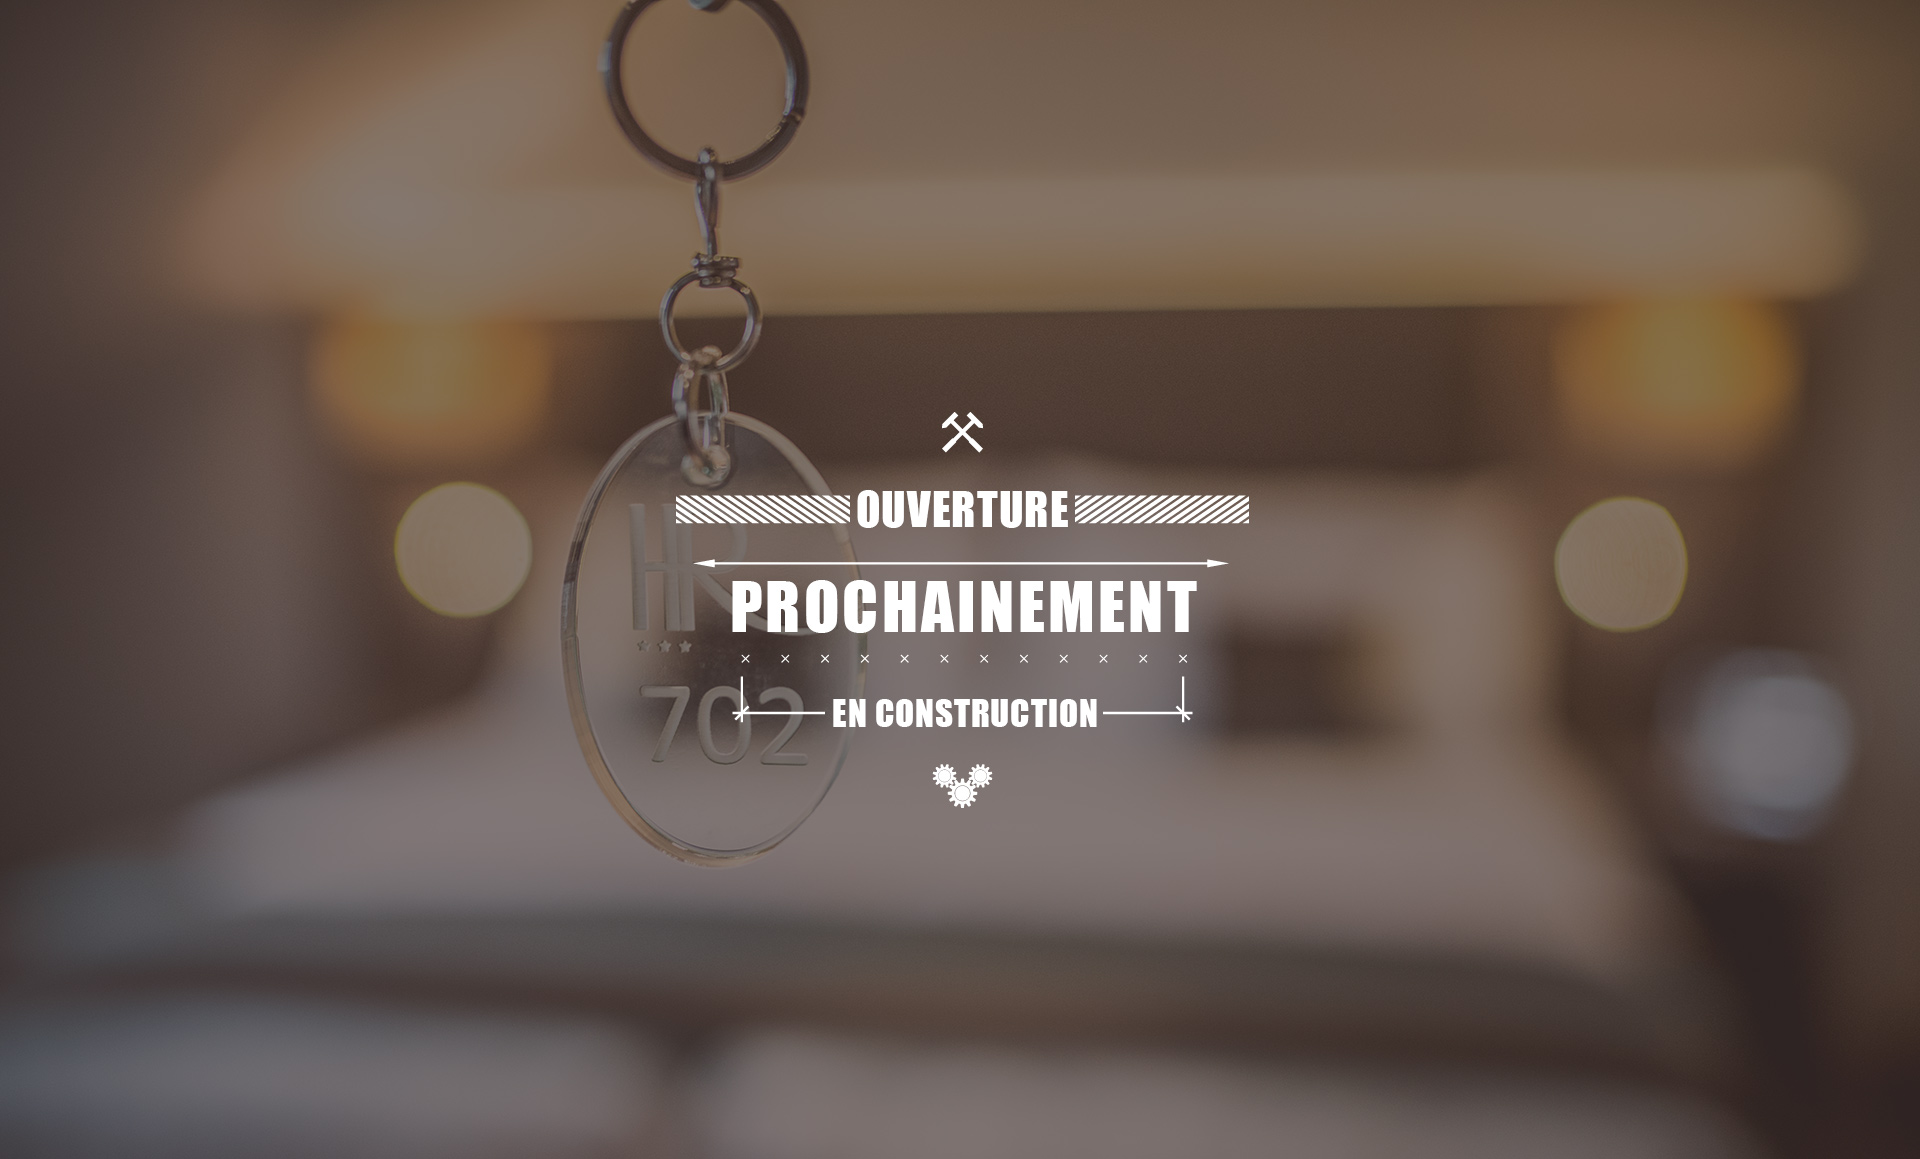
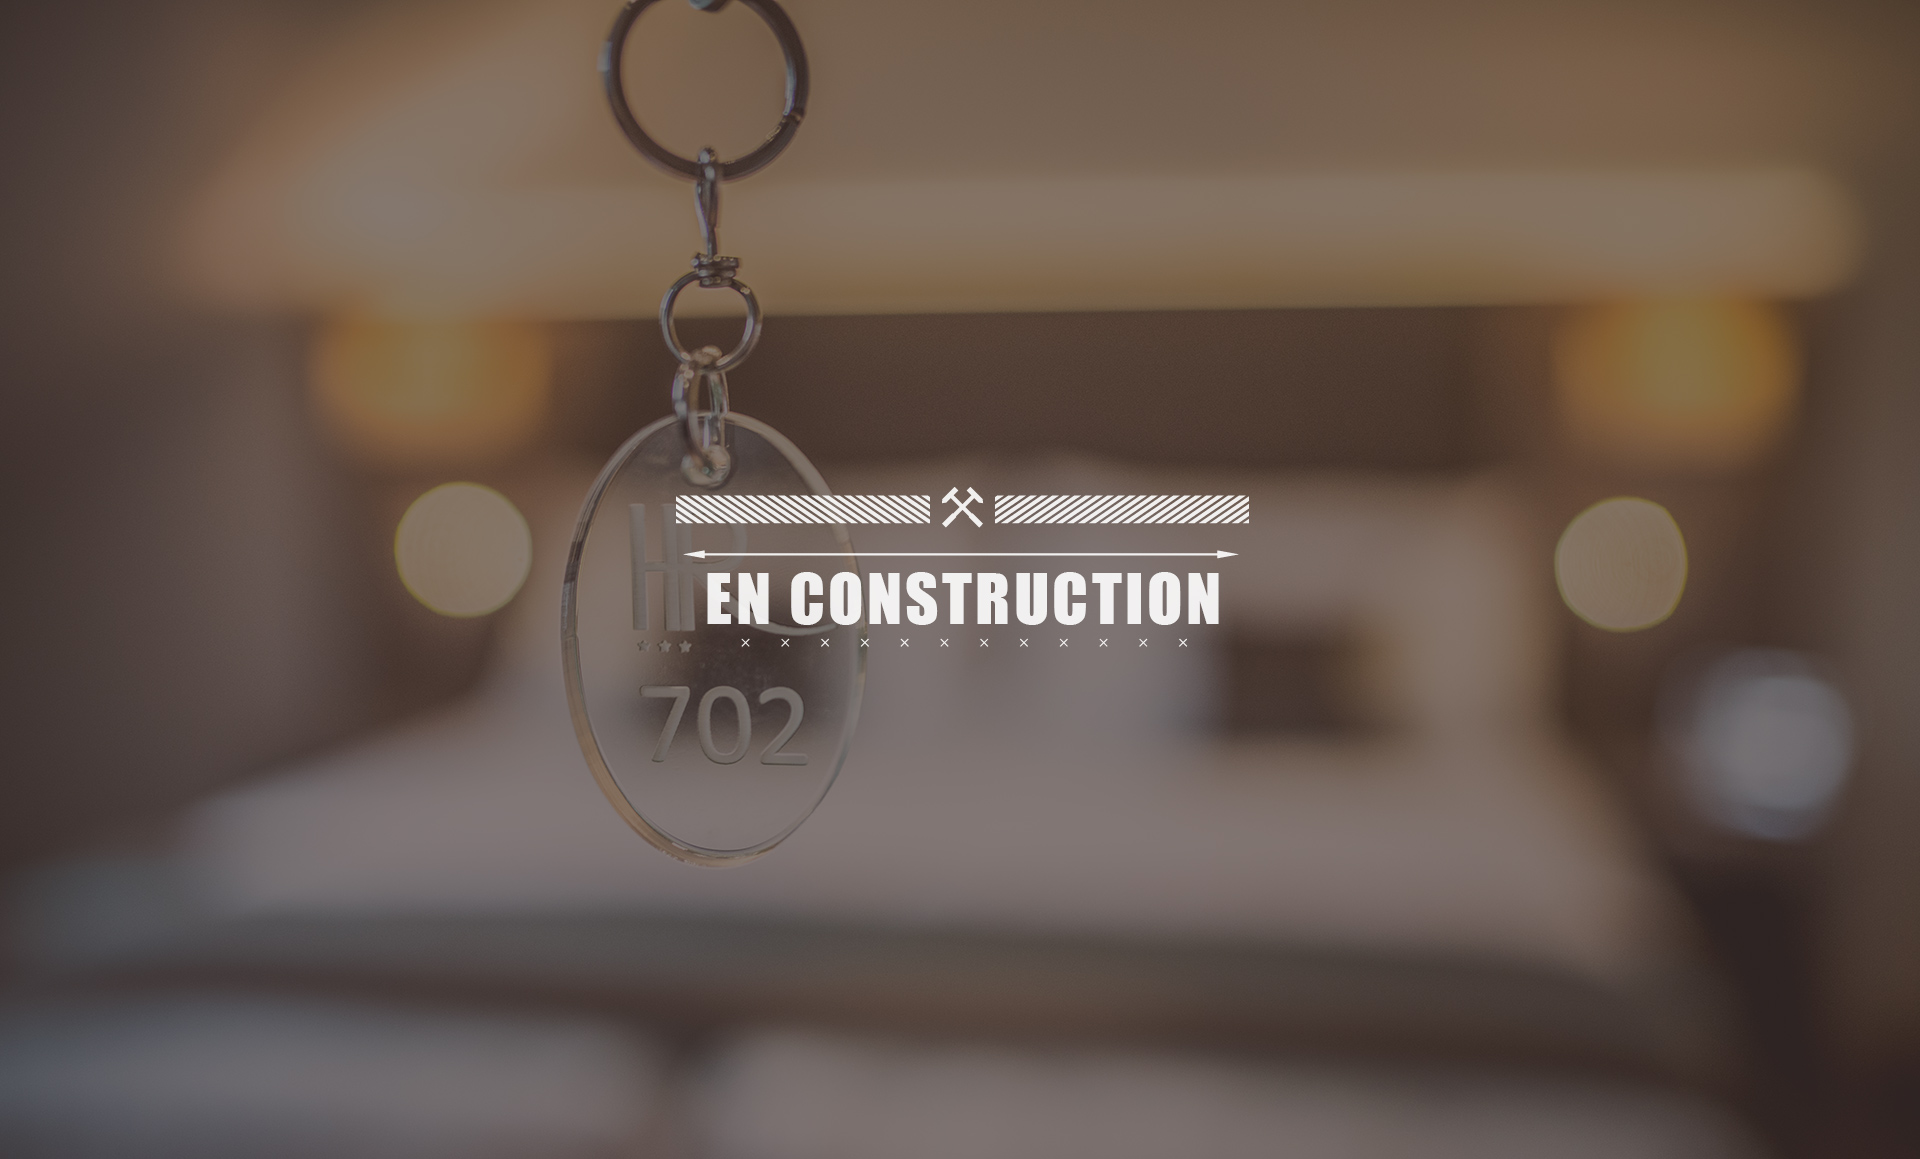
modified contact page

Changed region(s): [[0.3438, 0.4038, 0.6562, 0.5591], [0.375, 0.5902, 0.625, 0.6833]]

diff --git a/public/css/forms_style.css b/public/css/forms_style.css
@@ -7,7 +7,8 @@ input, button, select, textarea {
     outline: none;
     font-family: open_sans!important;
     color: #4d4d4d;
-    padding-left: 15px;
+    padding-left: 20px;
+    font-size: 15px;
 }
 textarea {
     padding-top: 10px;
@@ -25,4 +26,11 @@ textarea {
     color: #999999;
     font-family: open_sans;
     margin: 18px 0 5px;
+}
+.selectboxit span {
+    padding: 8px 0;
+    color: #4d4d4d!important;
+    font-family: open_sans!important;
+    font-size: 15px!important;
+    /*font-family: 12px open_sans_bold;*/
 }

diff --git a/public/css/offers.css b/public/css/offers.css
@@ -1,5 +1,6 @@
 body {
-    background: url(../img/offers/offers_bg.jpg) no-repeat center center fixed;
+    background: url(../img/page_in_construction_bg.jpg) no-repeat center center fixed;
+    /*background: url(../img/offers/offers_bg.jpg) no-repeat center center fixed;*/
 }
 .page_icon {
     padding-top: 6px;

diff --git a/public/css/index.css b/public/css/index.css
@@ -5,7 +5,7 @@ body {
     padding-top: 150px;
 }
 .middle .search_block{
-    /*display: none;*/
+    display: none;
     width: 420px;
     background: #ffffff;
     /*display: table;*/

diff --git a/public/css/contact.css b/public/css/contact.css
@@ -58,6 +58,7 @@
 }
 
 .share {
+    display: none;
     height: 60px;
     background-color: rgba(48, 41, 37, 0.6);
     margin: 0 -60px 0 -60px;

diff --git a/resources/views/offers.blade.php b/resources/views/offers.blade.php
@@ -68,47 +68,47 @@
     <!--header END-->
 
     <!--main content START-->
-        <section class="main_section">
-                    <div class="main_container">
-                        <div class="row">
-                            <div class="col-xs-push-8 col-xs-4">
-                                <div class="sidebar_parent">
-                                    <div class="show_hide_sidebar_btn"></div>
-                                    <div class="right_sidebar_container">
-                                        <div class="right_sidebar">
-                                            <img class="page_icon" src="/img/offers/offers_right_sidebar_icon.png">
-                                            <h3>Services</h3>
-                                            <p>
-                                                Hôtel, les services
-                                            </p>
-                                            <ul class="hotel_services">
-                                                <li><img src="/img/offers/offers_icons/soundproofed.png"><span> - chambres insonorisées </span></li>
-                                                <li><img src="/img/offers/offers_icons/non_smoking.png"><span> - hôtel non-fumeur</span></li>
-                                                <li><img src="/img/offers/offers_icons/wine_bar.png"><span> - Restaurant  Wine-bar </span></li>
-                                                <li><img src="/img/offers/offers_icons/breakfast.png"><span> - Petit déjeuner (6.30 – 10.00)</span></li>
-                                                <li><img src="/img/offers/offers_icons/nespresso_machine.png"><span> - Machine Nespresso en chambre</span></li>
-                                                <li><img src="/img/offers/offers_icons/safe.png"><span> - WiFi gratuit dans tout l'hôtel</span></li>
-                                                <li><img src="/img/offers/offers_icons/desk.png"><span> - Bureau</span></li>
-                                                <li><img src="/img/offers/offers_icons/hair_dryer.png"><span> - SdB, séche-cheveux</span></li>
-                                                <li><img src="/img/offers/offers_icons/pressing.png"><span> - Service pressing (payant)</span></li>
-                                                <li><img src="/img/offers/offers_icons/washing_machine.png"><span> - Local machine à laver/sécher, fer et planche à repasser </span></li>
-                                                <li><img src="/img/offers/offers_icons/kitchen.png"><span> - Kitchenette</span></li>
-                                            </ul>
-                                            <p>
-                                                Hôtel, les services
-                                            </p>
-                                            <ul class="hotel_services additional">
-                                                <li><img src="/img/offers/offers_icons/common_checked.png"><span> Palette 3 verres (3x1dl) dégustation de bières artisanales les Brasseurs Genève, </span></li>
-                                                <li><img src="/img/offers/offers_icons/common_checked.png"><span> Palette 3 verres (3x1dl) dégustation de vins (blanc ou rosé ou rouge),</span></li>
-                                                <li><img src="/img/offers/offers_icons/common_checked.png"><span> 20 mets à Frs 20.-  servis sur palettes :<br> 5 Flammekueches (tartes flambées) moitié-moitié au  </span></li>
-                                            </ul>
-                                        </div>
-                                    </div>
-                                </div>
-                            </div>
-                        </div>
-                    </div>
-                </section>
+        {{--<section class="main_section">--}}
+            {{--<div class="main_container">--}}
+                {{--<div class="row">--}}
+                    {{--<div class="col-xs-push-8 col-xs-4">--}}
+                        {{--<div class="sidebar_parent">--}}
+                            {{--<div class="show_hide_sidebar_btn"></div>--}}
+                            {{--<div class="right_sidebar_container">--}}
+                                {{--<div class="right_sidebar">--}}
+                                    {{--<img class="page_icon" src="/img/offers/offers_right_sidebar_icon.png">--}}
+                                    {{--<h3>Services</h3>--}}
+                                    {{--<p>--}}
+                                        {{--Hôtel, les services--}}
+                                    {{--</p>--}}
+                                    {{--<ul class="hotel_services">--}}
+                                        {{--<li><img src="/img/offers/offers_icons/soundproofed.png"><span> - chambres insonorisées </span></li>--}}
+                                        {{--<li><img src="/img/offers/offers_icons/non_smoking.png"><span> - hôtel non-fumeur</span></li>--}}
+                                        {{--<li><img src="/img/offers/offers_icons/wine_bar.png"><span> - Restaurant  Wine-bar </span></li>--}}
+                                        {{--<li><img src="/img/offers/offers_icons/breakfast.png"><span> - Petit déjeuner (6.30 – 10.00)</span></li>--}}
+                                        {{--<li><img src="/img/offers/offers_icons/nespresso_machine.png"><span> - Machine Nespresso en chambre</span></li>--}}
+                                        {{--<li><img src="/img/offers/offers_icons/safe.png"><span> - WiFi gratuit dans tout l'hôtel</span></li>--}}
+                                        {{--<li><img src="/img/offers/offers_icons/desk.png"><span> - Bureau</span></li>--}}
+                                        {{--<li><img src="/img/offers/offers_icons/hair_dryer.png"><span> - SdB, séche-cheveux</span></li>--}}
+                                        {{--<li><img src="/img/offers/offers_icons/pressing.png"><span> - Service pressing (payant)</span></li>--}}
+                                        {{--<li><img src="/img/offers/offers_icons/washing_machine.png"><span> - Local machine à laver/sécher, fer et planche à repasser </span></li>--}}
+                                        {{--<li><img src="/img/offers/offers_icons/kitchen.png"><span> - Kitchenette</span></li>--}}
+                                    {{--</ul>--}}
+                                    {{--<p>--}}
+                                        {{--Hôtel, les services--}}
+                                    {{--</p>--}}
+                                    {{--<ul class="hotel_services additional">--}}
+                                        {{--<li><img src="/img/offers/offers_icons/common_checked.png"><span> Palette 3 verres (3x1dl) dégustation de bières artisanales les Brasseurs Genève, </span></li>--}}
+                                        {{--<li><img src="/img/offers/offers_icons/common_checked.png"><span> Palette 3 verres (3x1dl) dégustation de vins (blanc ou rosé ou rouge),</span></li>--}}
+                                        {{--<li><img src="/img/offers/offers_icons/common_checked.png"><span> 20 mets à Frs 20.-  servis sur palettes :<br> 5 Flammekueches (tartes flambées) moitié-moitié au  </span></li>--}}
+                                    {{--</ul>--}}
+                                {{--</div>--}}
+                            {{--</div>--}}
+                        {{--</div>--}}
+                    {{--</div>--}}
+                {{--</div>--}}
+            {{--</div>--}}
+        {{--</section>--}}
     <!--main content END-->
 
     <!--footer START-->

diff --git a/resources/views/contact.blade.php b/resources/views/contact.blade.php
@@ -98,7 +98,7 @@
                                         <a href="http://hotelrousseau.ch">www.hotelrousseau.ch</a>
                                     </li>
                                 </ul>
-                                <div class="contact_form">
+                                <form class="contact_form" action="{{url('contact')}}">
                                     <h4>Formulaire de contact</h4>
                                     <p class="form_placeholder">Prénom & Nom*</p>
                                     <input type="text" name="name">
@@ -110,17 +110,19 @@
                                     <input type="tel" name="name">
                                     <p class="form_placeholder">Sujet*</p>
                                     <select name="topic">
-                                        <option>-</option>
-                                        <option>topic 1</option>
-                                        <option>topic 2</option>
-                                        <option>topic 3</option>
-                                        <option>topic 4</option>
-                                        <option>topic 5</option>
+                                        {{--<option>-</option>--}}
+                                        <option>Informations divers</option>
+                                        <option>Reservation</option>
+                                        <option>Demande de prix</option>
+                                        <option>Demande de contrat</option>
+                                        <option>Suggestion ou recommandation</option>
+                                        <option>Facturation</option>
+                                        <option>Reclamation</option>
                                     </select>
                                     <p class="form_placeholder">Message*</p>
                                     <textarea name="name"></textarea>
                                     <button type="button" class="book_the_room">Envoyer le message</button>
-                                </div>
+                                </form>
                                 <div class="share">
                                     <h4>Share</h4>
                                     <ul class="social_networks_list">
